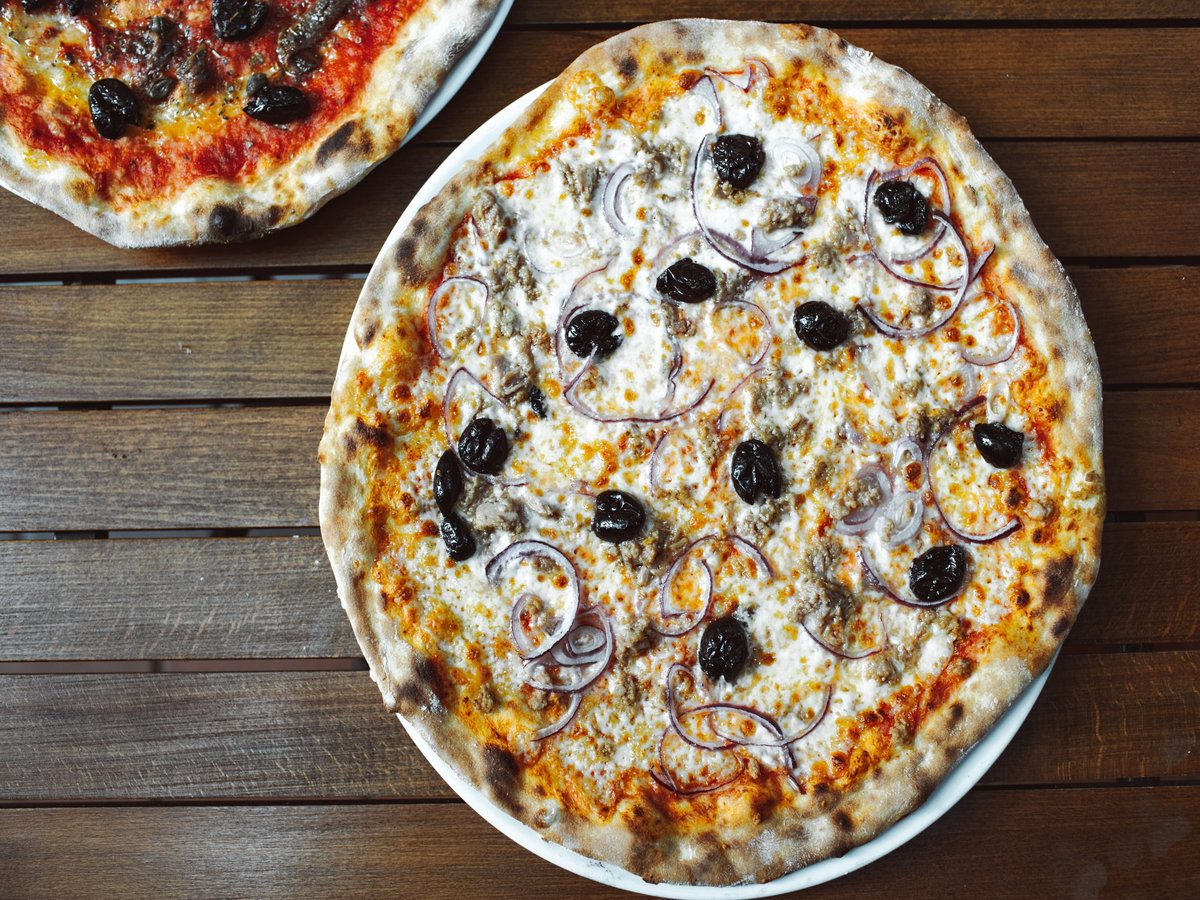
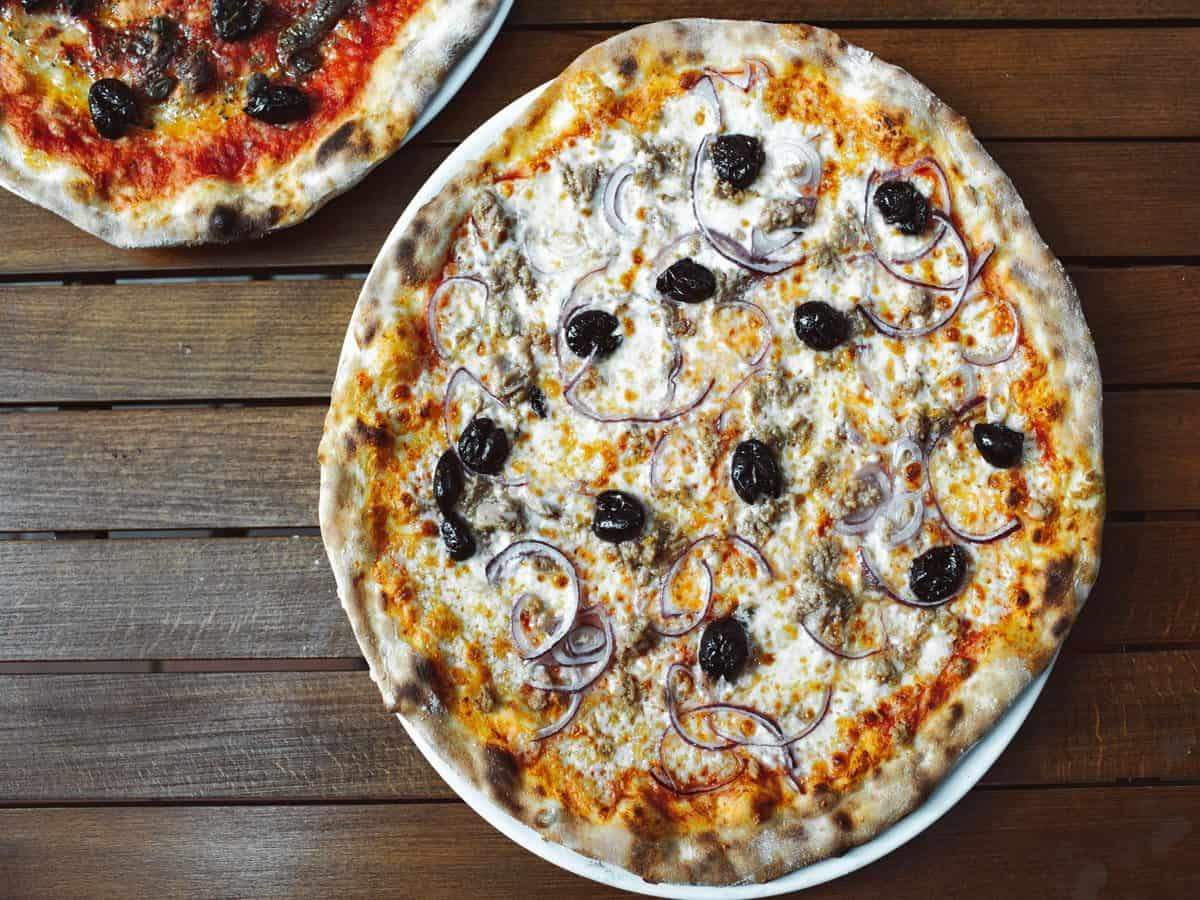
feat: update styles and images to improve the visual experience

diff --git a/src/scripts/menu.js b/src/scripts/menu.js
@@ -9,7 +9,7 @@ if (toggle && panel) {
   const setOpen = (open) => {
     panel.classList.toggle("is-open", open);
     overlay?.classList.toggle("is-open", open);
-    panel.setAttribute("aria-hidden", String(!open));
+    panel.inert = !open; // знімає панель із Tab-порядку + з дерева доступності коли закрита
     toggle.setAttribute("aria-expanded", String(open));
     document.body.style.overflow = open ? "hidden" : "";
   };